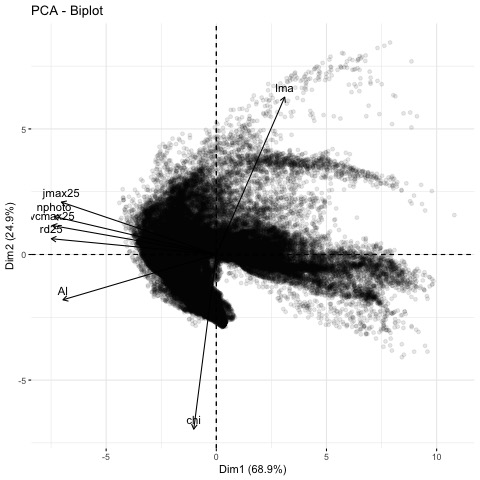
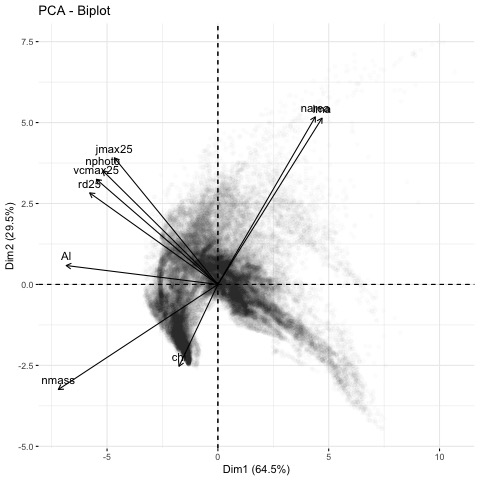
see notes, but in short: got rid of non-veg areas, updated n calcs

diff --git a/notes.md b/notes.md
@@ -12,3 +12,19 @@ interpretable PCA plots
 - next steps
 	- make plots with deciduous and evergreen and correct traits
 		- need to think about best traits to look at
+
+## june 25, 2025
+- fixed package dependencies
+- received PCA plot script from Alissar (see email)
+- next steps
+	- filter out non-vegetated areas and redo plots
+	
+## june 27, 2025
+- created figures with only vegetated land areas from modis
+- next steps
+	- figure out what we can glean from all this!
+		- chi and photosynthetic capacity are orthogonal
+			- nuances LCT
+			- photosynthesis is in the middle (of course?)
+		- n does different things for deciduous and evergreen
+	- add c4?
